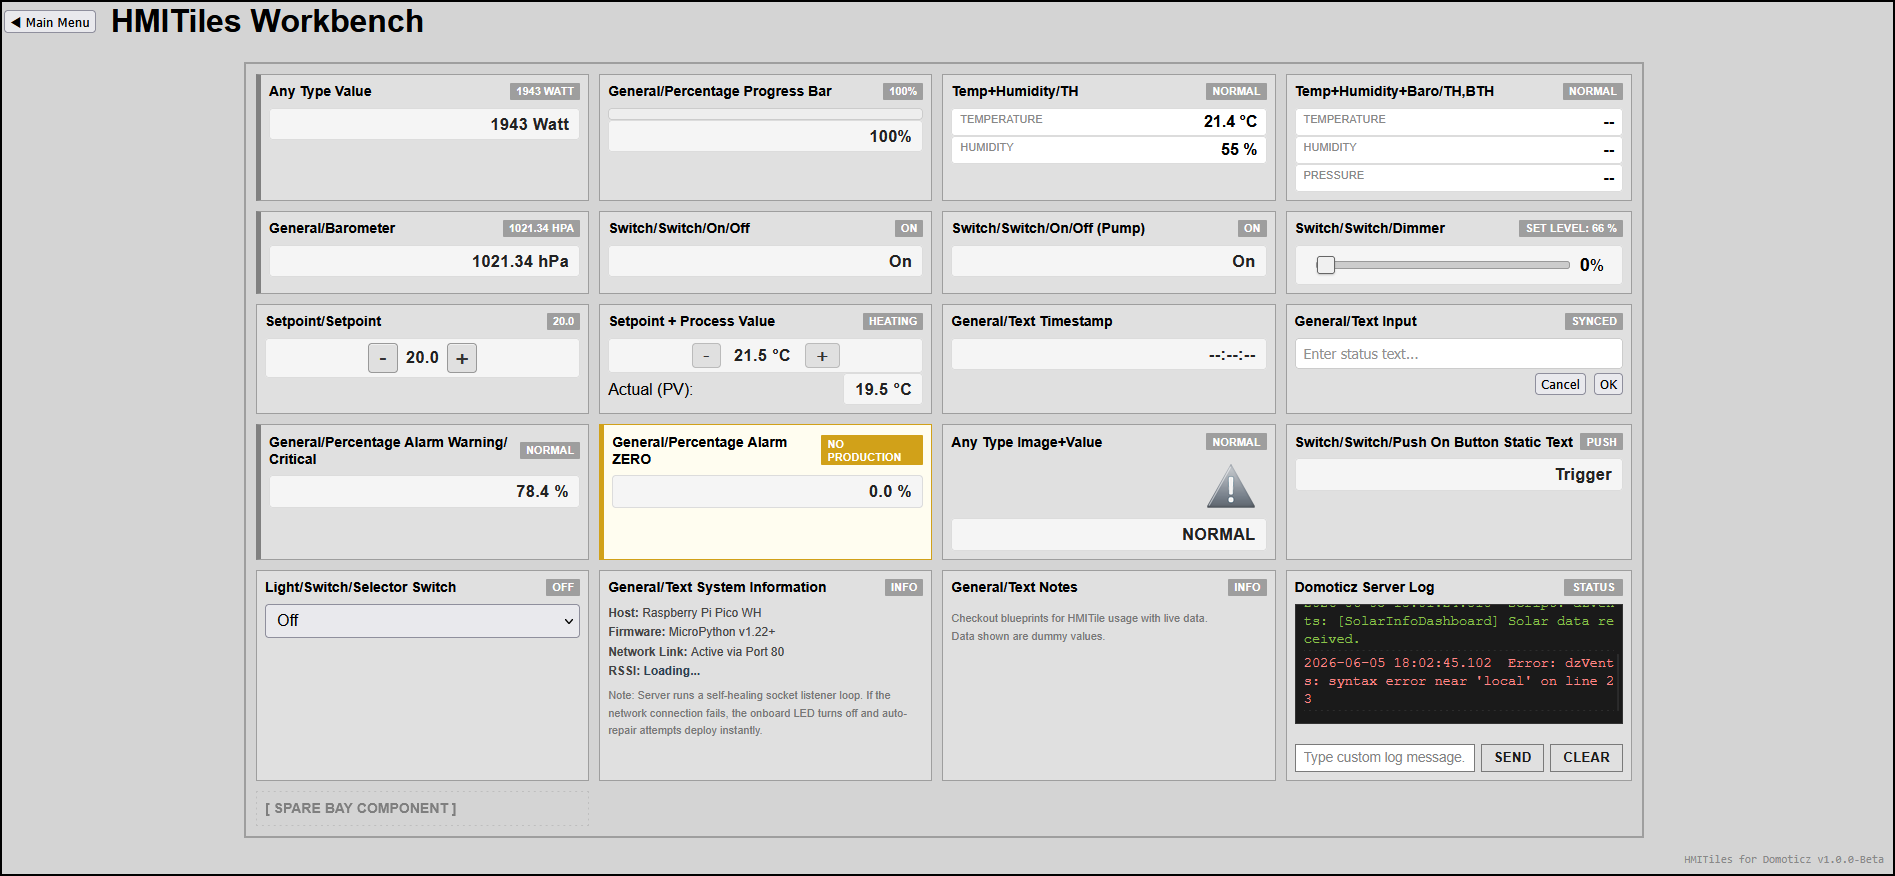
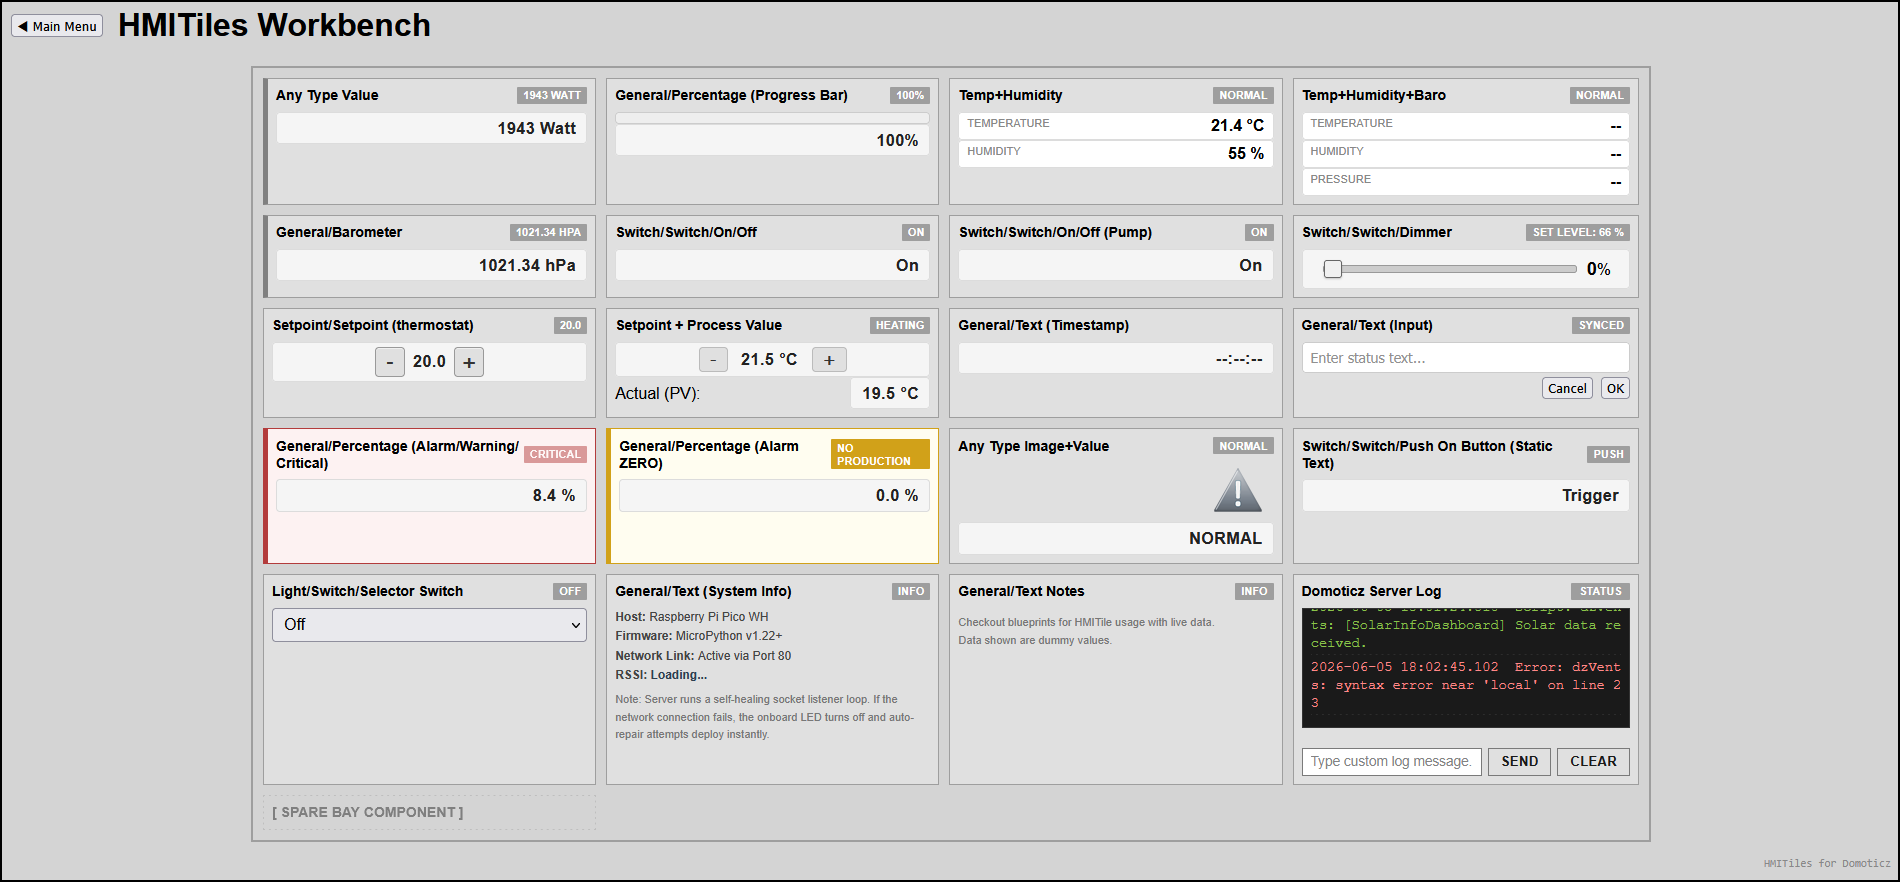
Update

diff --git a/blueprints/10-hmitiles-workbench/hmitilesworkbench/index.html b/blueprints/10-hmitiles-workbench/hmitilesworkbench/index.html
@@ -77,7 +77,7 @@ Description: All tiles have default Domoticz device idx set. Change accordingly 
                     { idx: "11", Name: "Process Value Sensor", Temp: "19.5", Data: "19.5" }, // Maps to data-pv-idx
                     
                     // Injected values for alarm thresholds to overwrite the '--' markers
-                    { idx: "16", Name: "General/Percentage Alarm Warning/Critical", Data: "78.4", Status: "78.4 %" },
+                    { idx: "16", Name: "General/Percentage Alarm Warning/Critical", Data: "8.4", Status: "8.4 %" },
                     { idx: "17", Name: "General/Percentage Alarm ZERO", Data: "0.0", Status: "0.0 %" },
                     
                     { idx: "18", Name: "Any Type Image+Value", Data: "OK", Status: "NORMAL" },
@@ -145,7 +145,7 @@ Description: All tiles have default Domoticz device idx set. Change accordingly 
     </main>
 
 	<footer class="hmi-footer-version">
-		<span>HMITiles for Domoticz v1.0.0-Beta</span>
+		<span>HMITiles for Domoticz</span>
 	</footer>
 
 </body>

diff --git a/blueprints/20-create-single-tile-page/singletilepage/index.html b/blueprints/20-create-single-tile-page/singletilepage/index.html
@@ -45,7 +45,7 @@
         </div>
 
 		<footer class="hmi-footer-version">
-			<span>HMITiles for Domoticz v1.0.0-Beta</span>
+			<span>HMITiles for Domoticz</span>
 		</footer>
 
     </main>

diff --git a/blueprints/21-create-multi-tile-trend-page/multitiletrendpage/index.html b/blueprints/21-create-multi-tile-trend-page/multitiletrendpage/index.html
@@ -236,7 +236,7 @@
 		</div>
 
 		<footer class="hmi-footer-version">
-			<span>HMITiles for Domoticz v1.0.0-Beta</span>
+			<span>HMITiles for Domoticz</span>
 		</footer>
 
     </main>

diff --git a/blueprints/22-create-value-image-tile/valueimagetile/index.html b/blueprints/22-create-value-image-tile/valueimagetile/index.html
@@ -142,7 +142,7 @@
 		</div>
 
 		<footer class="hmi-footer-version">
-			<span>HMITiles for Domoticz v1.0.0-Beta</span>
+			<span>HMITiles for Domoticz</span>
 		</footer>
 
     </main>

diff --git a/blueprints/23-create-input-tile/inputtile/index.html b/blueprints/23-create-input-tile/inputtile/index.html
@@ -62,7 +62,7 @@
 		</div>
 
 		<footer class="hmi-footer-version">
-			<span>HMITiles for Domoticz v1.0.0-Beta</span>
+			<span>HMITiles for Domoticz</span>
 		</footer>
 
     </main>

diff --git a/blueprints/24-create-alarm-tile/alarmtile/index.html b/blueprints/24-create-alarm-tile/alarmtile/index.html
@@ -61,7 +61,7 @@
 		</div>
 
 		<footer class="hmi-footer-version">
-			<span>HMITiles for Domoticz v1.0.0-Beta</span>
+			<span>HMITiles for Domoticz</span>
 		</footer>
 
     </main>

diff --git a/blueprints/25-create-progress-bar-tile/progressbartile/index.html b/blueprints/25-create-progress-bar-tile/progressbartile/index.html
@@ -87,7 +87,7 @@
 		</div>
 
 		<footer class="hmi-footer-version">
-			<span>HMITiles for Domoticz v1.0.0-Beta</span>
+			<span>HMITiles for Domoticz</span>
 		</footer>
 
     </main>

diff --git a/blueprints/26-create-setpoint-pv-tile/setpointpvtile/index.html b/blueprints/26-create-setpoint-pv-tile/setpointpvtile/index.html
@@ -95,7 +95,7 @@
 		</div>
 
 		<footer class="hmi-footer-version">
-			<span>HMITiles for Domoticz v1.0.0-Beta</span>
+			<span>HMITiles for Domoticz</span>
 		</footer>
 
     </main>

diff --git a/blueprints/27-create-selector-switch/selectorswitch/index.html b/blueprints/27-create-selector-switch/selectorswitch/index.html
@@ -48,7 +48,7 @@
 		</div>
 
 		<footer class="hmi-footer-version">
-			<span>HMITiles for Domoticz v1.0.0-Beta</span>
+			<span>HMITiles for Domoticz</span>
 		</footer>
 
     </main>

diff --git a/blueprints/28-create-log-monitor/logmonitor/index.html b/blueprints/28-create-log-monitor/logmonitor/index.html
@@ -56,7 +56,7 @@
 		</div>
 
 		<footer class="hmi-footer-version">
-			<span>HMITiles for Domoticz v1.0.0-Beta</span>
+			<span>HMITiles for Domoticz</span>
 		</footer>
 
     </main>

diff --git a/blueprints/50-solar-info-dashboard/solarinfodashboard/index.html b/blueprints/50-solar-info-dashboard/solarinfodashboard/index.html
@@ -193,7 +193,7 @@
         </div>
 
 		<footer class="hmi-footer-version">
-			<span>HMITiles for Domoticz v1.0.0-Beta</span>
+			<span>HMITiles for Domoticz</span>
 		</footer>
 
     </main>

diff --git a/blueprints/50-solar-info-dashboard/solarinfodashboard/trends.html b/blueprints/50-solar-info-dashboard/solarinfodashboard/trends.html
@@ -191,7 +191,7 @@
 		-->
 
 		<footer class="hmi-footer-version">
-			<span>HMITiles for Domoticz v1.0.0-Beta</span>
+			<span>HMITiles for Domoticz</span>
 		</footer>
 
     </main>